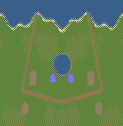
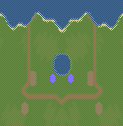
Standalone maps: roads run only along directions the corner transitions draw straight
Diagonal roads at arbitrary slopes switched corner rows one step at a time, which drew a one-cell staircase
along both edges. Roads are now Z-shaped paths along the cell axes (2:1 on screen) and the screen horizontal
and vertical, where whole rows of corners switch together and the edge is one straight run. The Z maps onto
itself under point reflection and mirroring, so both maps stay symmetric. Twin Fords and Harbor Line
regenerated.

Changed region(s): [[0.6585, 0.119, 0.8537, 0.7857], [0.1707, 0.119, 0.3415, 0.7857], [0.3415, 0.7381, 0.6585, 0.8333]]

diff --git a/tools/standalone-maps.py b/tools/standalone-maps.py
@@ -51,6 +51,39 @@ def seg_dist(p, a, b):
     return np.hypot(p[..., 0] - (a[0] + t * ab[0]), p[..., 1] - (a[1] + t * ab[1]))
 
 
+# Road directions whose edges come out straight on the corner-transition templates, in the isotropic plane
+# (px, py): along a cell axis (2:1 on screen) or along x + y or x - y (screen horizontal or vertical). Corners at the
+# same distance from such a line share a row, so the road band switches whole rows of corners and its edge is a
+# straight run of half-cell or chamfer templates. Any other slope steps from row to row: the staircase edge.
+CLEAN = [np.array(d, float) / np.hypot(*d) for d in
+         ((1, 0), (1, 0.5), (0, 1), (-1, 0.5), (-1, 0), (-1, -0.5), (0, -1), (1, -0.5))]
+
+
+def road_mask(P, a, b, half_width=1.1):
+    """A road from a to b drawn only along CLEAN directions: a short leg along the minor direction, the long run along
+    the dominant one, then the rest of the minor leg (a Z). The two neighbouring directions that bracket b - a span it
+    with non-negative lengths. Point reflection and mirroring map the Z onto itself, so symmetric maps stay fair."""
+    a, b = np.asarray(a, float), np.asarray(b, float)
+    v = b - a
+    ang = [math.atan2(d[1], d[0]) % (2 * math.pi) for d in CLEAN]
+    t = math.atan2(v[1], v[0]) % (2 * math.pi)
+    for i in range(len(CLEAN)):
+        lo, hi = ang[i], ang[(i + 1) % len(CLEAN)]
+        span = (hi - lo) % (2 * math.pi)
+        if (t - lo) % (2 * math.pi) <= span + 1e-9:
+            d1, d2 = CLEAN[i], CLEAN[(i + 1) % len(CLEAN)]
+            break
+    k1, k2 = np.linalg.solve(np.stack([d1, d2], 1), v)
+    (major, kM), (minor, km) = ((d1, k1), (d2, k2)) if k1 >= k2 else ((d2, k2), (d1, k1))
+    p1 = a + minor * km / 2
+    p2 = p1 + major * kM
+    mask = np.zeros(P.shape[:2], bool)
+    for s, e in ((a, p1), (p1, p2), (p2, b)):
+        if np.hypot(*(e - s)) > 1e-6:
+            mask |= seg_dist(P, s, e) < half_width
+    return mask
+
+
 def smooth_noise(px, py, seed, scale):
     r = np.random.default_rng(seed)
     s = 0
@@ -198,7 +231,7 @@ def twin_fords():
     road = np.zeros(dist.shape, bool)
     for s in spawns_p:
         for q in ford_p:
-            road |= seg_dist(P, s, q) < 1.1
+            road |= road_mask(P, s, q)
     for s in spawns_p:
         rough &= np.hypot(P[..., 0] - s[0], P[..., 1] - s[1]) > 10
     mb.paint(rough, "rough")
@@ -228,10 +261,10 @@ def harbor_line():
     noise = smooth_noise(ax, P[..., 1], 11, 8.0)
     rough = (noise > 0.4) & (P[..., 1] > coast + 4) & ~lake
     spawns_p = [np.array([mx - 40.0, 46.0]), np.array([mx + 40.0, 46.0])]
-    road = seg_dist(P, spawns_p[0], np.array([mx, 52.0])) < 1.1
-    road |= seg_dist(P, spawns_p[1], np.array([mx, 52.0])) < 1.1
+    road = road_mask(P, spawns_p[0], np.array([mx, 52.0]))
+    road |= road_mask(P, spawns_p[1], np.array([mx, 52.0]))
     for sgn in (-1, 1):
-        road |= seg_dist(P, np.array([mx + sgn * 40.0, 46.0]), np.array([mx + sgn * 26.0, coast.min() + 2])) < 1.1
+        road |= road_mask(P, np.array([mx + sgn * 40.0, 46.0]), np.array([mx + sgn * 26.0, coast.min() + 2]))
     for s in spawns_p:
         rough &= np.hypot(P[..., 0] - s[0], P[..., 1] - s[1]) > 10
     shore = (P[..., 1] < coast + 1.2) & ~sea
